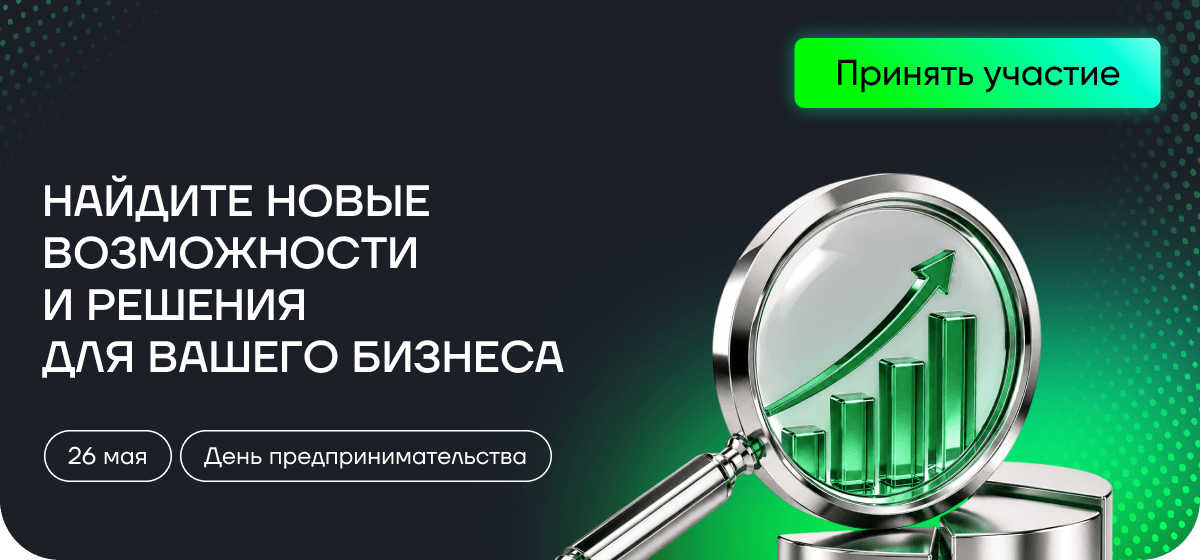
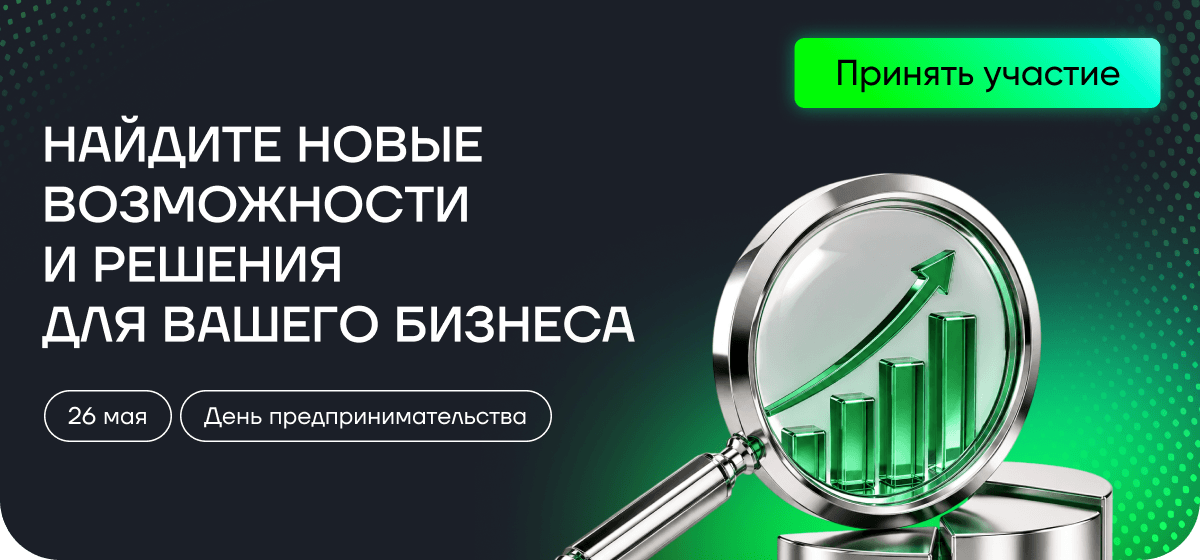
change mik-359

Changed region(s): [[0.0308, 0.425, 0.5242, 0.6679], [0.0308, 0.6982, 0.4625, 0.8804], [0.0308, 0.2125, 0.4008, 0.3946]]

diff --git a/mik-359/Найдите новые возможности и решения для вашего бизнеса.html b/mik-359/Найдите новые возможности и решения для вашего бизнеса.html
@@ -102,7 +102,7 @@
                                         <tbody>
                                         <tr>
                                             <td style="width:600px;">
-                                                <a href="https://xn--2026-u5dgo.xn--p1ai/form-page/?utm_source=email&utm_medium=mik" target="_blank">
+                                                <a href="https://xn--2026-u5dgo.xn--p1ai/events/den-predprinimatelya/?utm_source=email&utm_medium=mik" target="_blank">
                                                     <img alt="Найдите новые возможности и решения для вашего бизнеса. 26 мая. День предпринимательства. Нажмите здесь, чтобы принять участие." height="auto" src="https://cp.unisender.com/ru/user_file?resource=images&user_id=5608985&name=mik-359-hero.png" style="border:0;display:block;outline:none;text-decoration:none;height:auto;width:100%;font-size:13px;" width="600" />
                                                 </a>
                                             </td>
@@ -160,7 +160,7 @@
                         <table border="0" cellpadding="0" cellspacing="0" role="presentation" style="vertical-align:top;" width="100%">
                             <tbody>
                             <tr>
-                                <td align="left" style="font-size:0px;word-break:break-word;padding:29px 0 30px;">
+                                <td align="left" style="font-size:0px;word-break:break-word;padding:29px 0 12px;">
                                     <div style="font-family: Gilroy, Helvetica, Arial, sans-serif;font-size:30px;font-weight:500;line-height:120%;text-align:left;color:#000000;">ЧТО БУДЕТ НА&nbsp;СОБЫТИИ</div>
                                 </td>
                             </tr>
@@ -230,7 +230,7 @@
                         <table border="0" cellpadding="0" cellspacing="0" role="presentation" style="vertical-align:top;" width="100%">
                             <tbody>
                             <tr>
-                                <td align="left" style="font-size:0px;word-break:break-word;padding:29px 0 7px;">
+                                <td align="left" style="font-size:0px;word-break:break-word;padding:29px 0 13px;">
                                     <div style="font-family: Gilroy, Helvetica, Arial, sans-serif;font-size:30px;font-weight:500;line-height:120%;text-align:left;color:#000000;">ПРОГРАММА</div>
                                 </td>
                             </tr>
@@ -289,12 +289,12 @@
                             <tbody>
                             <tr>
                                 <td align="left" style="font-size:0px;word-break:break-word;padding-bottom:8px;">
-                                    <div style="display:inline-block;color:#000000;font-family: Gilroy, Helvetica, Arial, sans-serif;text-align:center;font-size:14px;font-weight:500;line-height:120%;margin:0;text-decoration:none;text-transform:none;mso-padding-alt:0px;max-width:285px;width:100%;border-radius:39px;min-height:22px;background: linear-gradient(79.57deg, #00FB07 19.78%, #00FED9 85.02%, #9FFFF6 103.22%);padding-top:5px;">Шоу с&nbsp;реальными предпринимателями</div>
+                                    <div style="display:inline-block;color:#000000;font-family: Gilroy, Helvetica, Arial, sans-serif;text-align:center;font-size:14px;font-weight:500;line-height:120%;margin:0;text-decoration:none;text-transform:none;mso-padding-alt:0px;max-width:288px;width:100%;border-radius:39px;min-height:22px;background: linear-gradient(79.57deg, #00FB07 19.78%, #00FED9 85.02%, #9FFFF6 103.22%);padding-top:5px;">Обзор рынков, кейсов и&nbsp;возможностей</div>
                                 </td>
                             </tr>
                             <tr>
                                 <td align="left" style="font-size:0px;word-break:break-word;">
-                                    <div style="font-family: Gilroy, Helvetica, Arial, sans-serif;font-size:16px;font-weight:500;line-height:120%;text-align:left;color:#000000;max-width:286px;width:100%;">о&nbsp;масштабировании бизнеса</div>
+                                    <div style="font-family: Gilroy, Helvetica, Arial, sans-serif;font-size:16px;font-weight:500;line-height:120%;text-align:left;color:#000000;">которые предоставляет город предпринимателям</div>
                                 </td>
                             </tr>
                             </tbody>
@@ -318,12 +318,12 @@
                             <tbody>
                             <tr>
                                 <td align="left" style="font-size:0px;word-break:break-word;padding-bottom:8px;">
-                                    <div style="display:inline-block;color:#000000;font-family: Gilroy, Helvetica, Arial, sans-serif;text-align:center;font-size:14px;font-weight:500;line-height:120%;margin:0;text-decoration:none;text-transform:none;mso-padding-alt:0px;max-width:326px;width:100%;border-radius:39px;min-height:22px;background: linear-gradient(79.57deg, #00FB07 19.78%, #00FED9 85.02%, #9FFFF6 103.22%);padding-top:5px;">Практические мастер-классы и&nbsp;паблик-токи</div>
+                                    <div style="display:inline-block;color:#000000;font-family: Gilroy, Helvetica, Arial, sans-serif;text-align:center;font-size:14px;font-weight:500;line-height:120%;margin:0;text-decoration:none;text-transform:none;mso-padding-alt:0px;max-width:136px;width:100%;border-radius:39px;min-height:22px;background: linear-gradient(79.57deg, #00FB07 19.78%, #00FED9 85.02%, #9FFFF6 103.22%);padding-top:5px;">Шоу «Развилки»</div>
                                 </td>
                             </tr>
                             <tr>
                                 <td align="left" style="font-size:0px;word-break:break-word;">
-                                    <div style="font-family: Gilroy, Helvetica, Arial, sans-serif;font-size:16px;font-weight:500;line-height:120%;text-align:left;color:#000000;max-width:286px;width:100%;">от&nbsp;лидеров в&nbsp;своей нише</div>
+                                    <div style="font-family: Gilroy, Helvetica, Arial, sans-serif;font-size:16px;font-weight:500;line-height:120%;text-align:left;color:#000000;">где реальные предприниматели расскажут о&nbsp;том, как выбрали правильный поворот и&nbsp;смогли масштабировать бизнес</div>
                                 </td>
                             </tr>
                             </tbody>
@@ -336,7 +336,36 @@
         </table>
     </div>
     <!--[if mso | IE]></td></tr></table><table align="center" border="0" cellpadding="0" cellspacing="0" class="" style="width:560px;" width="560" ><tr><td style="line-height:0px;font-size:0px;mso-line-height-rule:exactly;"><![endif]-->
-    <div style="margin:0px auto;max-width:560px;box-shadow: 0px 0px 20px 0px #00000014;border-radius:11px;background:#FFF;margin-bottom:30px;">
+    <div style="margin:0px auto;max-width:560px;box-shadow: 0px 0px 20px 0px #00000014;border-radius:11px;background:#FFF;margin-bottom:12px;">
+        <table align="center" border="0" cellpadding="0" cellspacing="0" role="presentation" style="width:100%;box-shadow: 0px 0px 20px 0px rgba(0, 0, 0, 0.05);border-radius:20px;">
+            <tbody>
+            <tr>
+                <td style="direction:ltr;font-size:0px;padding:9px 13px 13px;">
+                    <!--[if mso | IE]><table role="presentation" border="0" cellpadding="0" cellspacing="0"><tr><td class="" style="vertical-align:top;width:100%" ><![endif]-->
+                    <div class="mj-outlook-group-fix" style="font-size:0px;text-align:left;direction:ltr;display:inline-block;vertical-align:top;width:100%;">
+                        <table border="0" cellpadding="0" cellspacing="0" role="presentation" style="vertical-align:top;" width="100%">
+                            <tbody>
+                            <tr>
+                                <td align="left" style="font-size:0px;word-break:break-word;padding-bottom:8px;">
+                                    <div style="display:inline-block;color:#000000;font-family: Gilroy, Helvetica, Arial, sans-serif;text-align:center;font-size:14px;font-weight:500;line-height:120%;margin:0;text-decoration:none;text-transform:none;mso-padding-alt:0px;max-width:231px;width:100%;border-radius:39px;min-height:22px;background: linear-gradient(79.57deg, #00FB07 19.78%, #00FED9 85.02%, #9FFFF6 103.22%);padding-top:5px;">Мастер-классы и&nbsp;паблик-токи</div>
+                                </td>
+                            </tr>
+                            <tr>
+                                <td align="left" style="font-size:0px;word-break:break-word;">
+                                    <div style="font-family: Gilroy, Helvetica, Arial, sans-serif;font-size:16px;font-weight:500;line-height:120%;text-align:left;color:#000000;">от&nbsp;лидеров в&nbsp;своей нише для&nbsp;построения личного и&nbsp;корпоративного бренда, работы с&nbsp;маркетплейсами и&nbsp;роста команд</div>
+                                </td>
+                            </tr>
+                            </tbody>
+                        </table>
+                    </div>
+                    <!--[if mso | IE]></td></tr></table><![endif]-->
+                </td>
+            </tr>
+            </tbody>
+        </table>
+    </div>
+    <!--[if mso | IE]></td></tr></table><table align="center" border="0" cellpadding="0" cellspacing="0" class="" style="width:560px;" width="560" ><tr><td style="line-height:0px;font-size:0px;mso-line-height-rule:exactly;"><![endif]-->
+    <div style="margin:0px auto;max-width:560px;box-shadow: 0px 0px 20px 0px #00000014;border-radius:11px;background:#FFF;">
         <table align="center" border="0" cellpadding="0" cellspacing="0" role="presentation" style="width:100%;box-shadow: 0px 0px 20px 0px rgba(0, 0, 0, 0.05);border-radius:20px;">
             <tbody>
             <tr>
@@ -352,7 +381,31 @@
                             </tr>
                             <tr>
                                 <td align="left" style="font-size:0px;word-break:break-word;">
-                                    <div style="font-family: Gilroy, Helvetica, Arial, sans-serif;font-size:16px;font-weight:500;line-height:120%;text-align:left;color:#000000;max-width:490px;width:100%;">Департамента предпринимательства и&nbsp;инновационного развития города Москвы</div>
+                                    <div style="font-family: Gilroy, Helvetica, Arial, sans-serif;font-size:16px;font-weight:500;line-height:120%;text-align:left;color:#000000;max-width:440px;width:100%;">Департамента предпринимательства и&nbsp;инновационного развития города Москвы</div>
+                                </td>
+                            </tr>
+                            </tbody>
+                        </table>
+                    </div>
+                    <!--[if mso | IE]></td></tr></table><![endif]-->
+                </td>
+            </tr>
+            </tbody>
+        </table>
+    </div>
+    <!--[if mso | IE]></td></tr></table><table align="center" border="0" cellpadding="0" cellspacing="0" class="" style="width:600px;" width="600" ><tr><td style="line-height:0px;font-size:0px;mso-line-height-rule:exactly;"><![endif]-->
+    <div style="margin:0px auto;max-width:600px;">
+        <table align="center" border="0" cellpadding="0" cellspacing="0" role="presentation" style="width:100%;">
+            <tbody>
+            <tr>
+                <td style="direction:ltr;font-size:0px;padding:0 20px;">
+                    <!--[if mso | IE]><table role="presentation" border="0" cellpadding="0" cellspacing="0"><tr><td class="" style="vertical-align:top;width:600px;" ><![endif]-->
+                    <div class="mj-column-per-100 mj-outlook-group-fix" style="font-size:0px;text-align:left;direction:ltr;display:inline-block;vertical-align:top;width:100%;">
+                        <table border="0" cellpadding="0" cellspacing="0" role="presentation" style="vertical-align:top;" width="100%">
+                            <tbody>
+                            <tr>
+                                <td align="left" style="font-size:0px;word-break:break-word;padding:29px 0 13px;">
+                                    <div style="font-family: Gilroy, Helvetica, Arial, sans-serif;font-size:30px;font-weight:500;line-height:120%;text-align:left;color:#000000;">НА&nbsp;ДЕЛОВОМ ФОРУМЕ ВЫСТУПЯТ:</div>
                                 </td>
                             </tr>
                             </tbody>
@@ -370,8 +423,60 @@
             <tbody>
             <tr>
                 <td style="direction:ltr;font-size:0px;text-align:center;">
-                    <!--[if mso | IE]><table role="presentation" border="0" cellpadding="0" cellspacing="0"><tr><td class="" style="vertical-align:top;width:272px;margin-left:8px;margin-right:8px;margin-bottom:16px;" ><![endif]-->
-                    <div class="mj-outlook-group-fix" style="font-size:0px;text-align:left;direction:ltr;display:inline-block;vertical-align:top;width:272px;margin-left:8px;margin-right:8px;margin-bottom:16px;">
+                    <!--[if mso | IE]><table role="presentation" border="0" cellpadding="0" cellspacing="0"><tr><td class="" style="vertical-align:top;width:274px;margin-left:6px;margin-right:6px;margin-bottom:13px;" ><![endif]-->
+                    <div class="mj-outlook-group-fix" style="font-size:0px;text-align:left;direction:ltr;display:inline-block;vertical-align:top;width:274px;margin-left:6px;margin-right:6px;margin-bottom:16px;">
+                        <table border="0" cellpadding="0" cellspacing="0" role="presentation" style="vertical-align:top;" width="100%">
+                            <tbody>
+                            <tr>
+                                <td style="font-size:0px;word-break:break-word;">
+                                    <table border="0" cellpadding="0" cellspacing="0" role="presentation" style="border-collapse:collapse;border-spacing:0px;">
+                                        <tbody>
+                                        <tr>
+                                            <td style="width:274px;">
+                                                <img alt="Евгений Вольтов - Диджитал-продюсер, директор блогеров-миллионников" height="auto" src="https://cp.unisender.com/ru/user_file?resource=images&user_id=5608985&name=mik-359-content-img-3_1.png" style="border:0;display:block;outline:none;text-decoration:none;height:auto;width:100%;font-size:13px;" width="274" />
+                                            </td>
+                                        </tr>
+                                        </tbody>
+                                    </table>
+                                </td>
+                            </tr>
+                            </tbody>
+                        </table>
+                    </div>
+                    <!--[if mso | IE]></td><td class="" style="vertical-align:top;width:274px;margin-left:8px;margin-right:8px;margin-bottom:29px;" ><![endif]-->
+                    <div class="mj-outlook-group-fix" style="font-size:0px;text-align:left;direction:ltr;display:inline-block;vertical-align:top;width:274px;margin-left:6px;margin-right:6px;margin-bottom:29px;">
+                        <table border="0" cellpadding="0" cellspacing="0" role="presentation" style="vertical-align:top;" width="100%">
+                            <tbody>
+                            <tr>
+                                <td style="font-size:0px;word-break:break-word;">
+                                    <table border="0" cellpadding="0" cellspacing="0" role="presentation" style="border-collapse:collapse;border-spacing:0px;">
+                                        <tbody>
+                                        <tr>
+                                            <td style="width:274px;">
+                                                <img alt="Даниил Терентьев - Тренер по сложным переговорам" height="auto" src="https://cp.unisender.com/ru/user_file?resource=images&user_id=5608985&name=mik-359-content-img-3_2.png" style="border:0;display:block;outline:none;text-decoration:none;height:auto;width:100%;font-size:13px;" width="274" />
+                                            </td>
+                                        </tr>
+                                        </tbody>
+                                    </table>
+                                </td>
+                            </tr>
+                            </tbody>
+                        </table>
+                    </div>
+                    <!--[if mso | IE]></td></tr></table><![endif]-->
+                </td>
+            </tr>
+            </tbody>
+        </table>
+    </div>
+    <!--[if mso | IE]></td></tr></table><table align="center" border="0" cellpadding="0" cellspacing="0" class="" style="width:600px;" width="600" ><tr><td style="line-height:0px;font-size:0px;mso-line-height-rule:exactly;"><![endif]-->
+    <div style="margin:0px auto;max-width:600px;">
+        <table align="center" border="0" cellpadding="0" cellspacing="0" role="presentation" style="width:100%;">
+            <tbody>
+            <tr>
+                <td style="direction:ltr;font-size:0px;text-align:center;">
+                    <!--[if mso | IE]><table role="presentation" border="0" cellpadding="0" cellspacing="0"><tr><td class="" style="vertical-align:top;width:272px;margin-left:8px;margin-right:8px;margin-bottom:14px;" ><![endif]-->
+                    <div class="mj-outlook-group-fix" style="font-size:0px;text-align:left;direction:ltr;display:inline-block;vertical-align:top;width:272px;margin-left:8px;margin-right:8px;margin-bottom:14px;">
                         <table border="0" cellpadding="0" cellspacing="0" role="presentation" style="vertical-align:top;" width="100%">
                             <tbody>
                             <tr>
@@ -390,8 +495,8 @@
                             </tbody>
                         </table>
                     </div>
-                    <!--[if mso | IE]></td><td class="" style="vertical-align:top;width:272px;margin-left:8px;margin-right:8px;margin-bottom:106px;" ><![endif]-->
-                    <div class="mj-outlook-group-fix" style="font-size:0px;text-align:left;direction:ltr;display:inline-block;vertical-align:top;width:272px;margin-left:8px;margin-right:8px;margin-bottom:16px;">
+                    <!--[if mso | IE]></td><td class="" style="vertical-align:top;width:272px;margin-left:8px;margin-right:8px;margin-bottom:14px;" ><![endif]-->
+                    <div class="mj-outlook-group-fix" style="font-size:0px;text-align:left;direction:ltr;display:inline-block;vertical-align:top;width:272px;margin-left:8px;margin-right:8px;margin-bottom:14px;">
                         <table border="0" cellpadding="0" cellspacing="0" role="presentation" style="vertical-align:top;" width="100%">
                             <tbody>
                             <tr>
@@ -417,7 +522,7 @@
         </table>
     </div>
     <!--[if mso | IE]></td></tr></table><table align="center" border="0" cellpadding="0" cellspacing="0" class="" style="width:600px;" width="600" ><tr><td style="line-height:0px;font-size:0px;mso-line-height-rule:exactly;"><![endif]-->
-    <div style="margin:0px auto;max-width:560px;background:#1A2A2B;background-color:#1A2A2B;border-radius:16px;margin-top:13px;margin-bottom:46px;">
+    <div style="margin:0px auto;max-width:560px;background:#1A2A2B;background-color:#1A2A2B;border-radius:16px;margin-bottom:46px;">
         <table align="center" border="0" cellpadding="0" cellspacing="0" role="presentation" style="width:100%;background:#1A2A2B;background-color:#1A2A2B;border-radius:16px;">
             <tbody>
             <tr>
@@ -448,7 +553,7 @@
                             <tbody>
                             <tr>
                                 <td align="left" style="font-size:0px;word-break:break-word;padding-top:17px;">
-                                    <div style="font-family: Gilroy, Helvetica, Arial, sans-serif;font-size:17px;font-weight:600;line-height:120%;text-align:left;color:#FFFFFF;">Подробности программы и&nbsp;регистрация — <a href="https://xn--2026-u5dgo.xn--p1ai/form-page/?utm_source=email&utm_medium=mik" style="color:#00FB07;" target="_blank">по&nbsp;ссылке.</a></div>
+                                    <div style="font-family: Gilroy, Helvetica, Arial, sans-serif;font-size:17px;font-weight:600;line-height:120%;text-align:left;color:#FFFFFF;">Подробности программы и&nbsp;регистрация — <a href="https://xn--2026-u5dgo.xn--p1ai/events/den-predprinimatelya/?utm_source=email&utm_medium=mik" style="color:#00FB07;" target="_blank">по&nbsp;ссылке.</a></div>
                                 </td>
                             </tr>
                             </tbody>